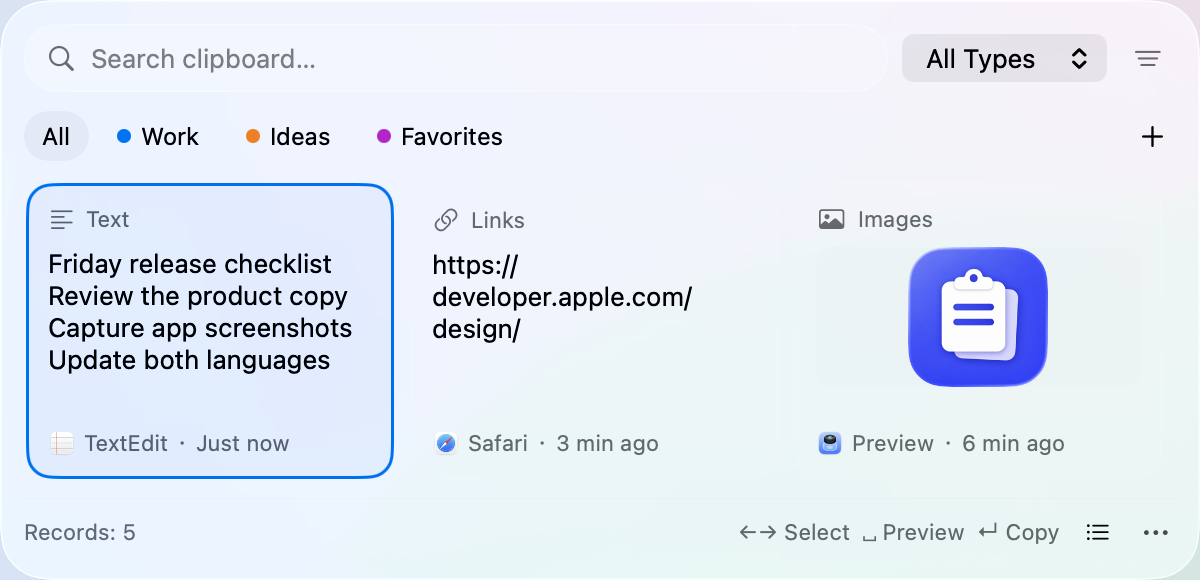
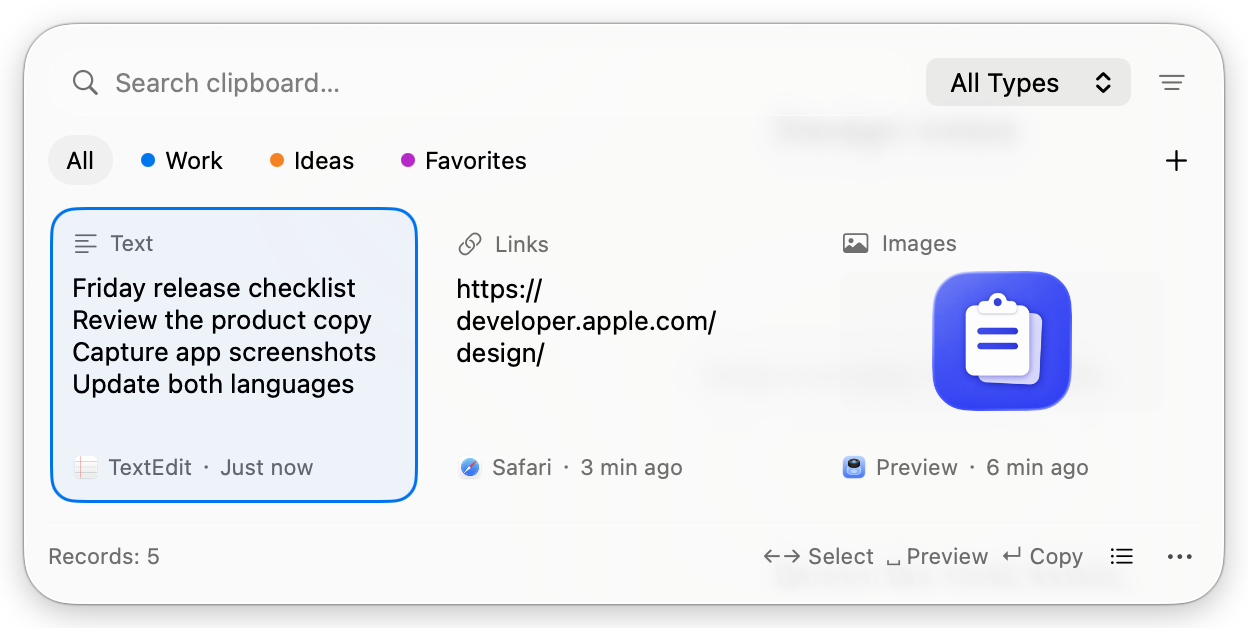
fix: use neutral backgrounds in website screenshots

diff --git a/website/en/index.html b/website/en/index.html
@@ -50,7 +50,7 @@
                 <div class="visual-topline" aria-hidden="true"><span>A little more memory for your clipboard.</span><span>⇧ ⌘ V</span></div>
                 <picture>
                     <source media="(prefers-color-scheme: dark)" srcset="../assets/website-cards-en-dark.webp">
-                    <img class="cards-screenshot" src="../assets/website-cards-en-light.webp" width="1200" height="580" alt="Actual Paste Lite Cards layout showing sample text, a link and an image" fetchpriority="high">
+                    <img class="cards-screenshot" src="../assets/website-cards-en-light.webp" width="1248" height="628" alt="Actual Paste Lite Cards layout showing sample text, a link and an image" fetchpriority="high">
                 </picture>
                 <figcaption>Actual Cards layout · Sample content</figcaption>
             </figure>
@@ -66,14 +66,14 @@
                 <figure>
                     <div class="layout-image"><picture>
                         <source media="(prefers-color-scheme: dark)" srcset="../assets/website-cards-en-dark.webp">
-                        <img class="cards-screenshot" src="../assets/website-cards-en-light.webp" width="1200" height="580" loading="lazy" alt="Actual Paste Lite Cards layout showing sample text, a link and an image">
+                        <img class="cards-screenshot" src="../assets/website-cards-en-light.webp" width="1248" height="628" loading="lazy" alt="Actual Paste Lite Cards layout showing sample text, a link and an image">
                     </picture></div>
                     <figcaption><strong>Cards</strong><span>Browse horizontally, with text snippets and image previews in view.</span></figcaption>
                 </figure>
                 <figure>
                     <div class="layout-image"><picture>
                         <source media="(prefers-color-scheme: dark)" srcset="../assets/website-list-en-dark.webp">
-                        <img class="list-screenshot" src="../assets/website-list-en-light.webp" width="1020" height="780" loading="lazy" alt="Actual Paste Lite List layout showing the same sample history">
+                        <img class="list-screenshot" src="../assets/website-list-en-light.webp" width="1068" height="828" loading="lazy" alt="Actual Paste Lite List layout showing the same sample history">
                     </picture></div>
                     <figcaption><strong>List</strong><span>A compact vertical view of titles, source apps and timestamps.</span></figcaption>
                 </figure>

diff --git a/website/index.html b/website/index.html
@@ -50,7 +50,7 @@
                 <div class="visual-topline" aria-hidden="true"><span>你的剪贴板，多一点记忆。</span><span>⇧ ⌘ V</span></div>
                 <picture>
                     <source media="(prefers-color-scheme: dark)" srcset="assets/website-cards-zh-dark.webp">
-                    <img class="cards-screenshot" src="assets/website-cards-zh-light.webp" width="1200" height="580" alt="Paste Lite 卡片布局实拍，展示示例文字、链接和图片" fetchpriority="high">
+                    <img class="cards-screenshot" src="assets/website-cards-zh-light.webp" width="1248" height="628" alt="Paste Lite 卡片布局实拍，展示示例文字、链接和图片" fetchpriority="high">
                 </picture>
                 <figcaption>卡片布局实拍 · 使用示例内容</figcaption>
             </figure>
@@ -66,14 +66,14 @@
                 <figure>
                     <div class="layout-image"><picture>
                         <source media="(prefers-color-scheme: dark)" srcset="assets/website-cards-zh-dark.webp">
-                        <img class="cards-screenshot" src="assets/website-cards-zh-light.webp" width="1200" height="580" loading="lazy" alt="Paste Lite 卡片布局实拍，展示示例文字、链接和图片">
+                        <img class="cards-screenshot" src="assets/website-cards-zh-light.webp" width="1248" height="628" loading="lazy" alt="Paste Lite 卡片布局实拍，展示示例文字、链接和图片">
                     </picture></div>
                     <figcaption><strong>卡片布局</strong><span>横向浏览，文字摘要和图片预览一眼可见。</span></figcaption>
                 </figure>
                 <figure>
                     <div class="layout-image"><picture>
                         <source media="(prefers-color-scheme: dark)" srcset="assets/website-list-zh-dark.webp">
-                        <img class="list-screenshot" src="assets/website-list-zh-light.webp" width="1020" height="780" loading="lazy" alt="Paste Lite 列表布局实拍，展示相同的示例历史记录">
+                        <img class="list-screenshot" src="assets/website-list-zh-light.webp" width="1068" height="828" loading="lazy" alt="Paste Lite 列表布局实拍，展示相同的示例历史记录">
                     </picture></div>
                     <figcaption><strong>列表布局</strong><span>纵向排列，更紧凑地查看标题、来源与时间。</span></figcaption>
                 </figure>

diff --git a/website/styles.css b/website/styles.css
@@ -49,9 +49,9 @@ h1 span { color: var(--blue); }
 .hero-visual { margin: 0; position: relative; padding: 35px 18px 22px; border: 1px solid var(--line); border-radius: 32px; background: var(--surface); }
 .visual-topline { display: flex; align-items: center; justify-content: space-between; gap: 12px; padding-inline: 15px; margin-bottom: 16px; color: var(--muted); font-size: 12px; letter-spacing: .04em; }
 .hero-visual > picture img { width: 100%; }
-/* Scale the native window’s 24 pt corners with each screenshot. */
-.cards-screenshot { border-radius: 4% / 8.28%; }
-.list-screenshot { border-radius: 4.71% / 6.16%; }
+/* Preserve the native 24 pt corners and 12 pt shadow margin as screenshots scale. */
+.cards-screenshot { border-radius: 5.77% / 11.46%; }
+.list-screenshot { border-radius: 6.74% / 8.70%; }
 .hero-visual figcaption { text-align: center; color: var(--muted); font-size: 12px; margin-top: 12px; }
 .overview { display: grid; grid-template-columns: repeat(4, 1fr); padding-block: 26px; border-block: 1px solid var(--line); }
 .overview div { text-align: center; padding: 4px 12px; }

diff --git a/CONTRIBUTING.md b/CONTRIBUTING.md
@@ -134,10 +134,10 @@ Use the system-composited screen image to preserve the native glass. Window-only
 
 1. **Prepare an isolated app.** Use the production `ClipboardPanelController`, `ClipboardHistoryView`, and `ClipboardGlass` with a temporary database, preferences, named pasteboard, and a dedicated capture-app bundle identifier. Populate only synthetic text, links, images, and groups. Disable copy and preview actions in the fixture; do not start clipboard monitoring or read stable/Beta history. Keep the fixture and capture logs under `.build/`.
 2. **Set up the real material.** Use macOS 26 or later for Liquid Glass and record the OS version and effective panel appearance. Check Reduce Transparency before capturing; if enabled, stop the glass capture without changing the user's system setting. Set the capture app and panel explicitly to light or dark appearance.
-3. **Place an opaque backdrop behind the panel.** Cover the entire capture region with a separate window so no personal desktop content can show through. Use a gentle gradient to make transmission through the glass visible, not an overlay on the app. The current screenshots use a 20° sRGB gradient from `(0.80, 0.90, 0.98)` to `(0.96, 0.87, 0.90)` in light mode and `(0.10, 0.15, 0.24)` to `(0.22, 0.15, 0.23)` in dark mode, with a subtle teal area near the bottom. Keep the panel above the backdrop; exclude other windows and window shadows from the captured rectangle. Do not modify the production material to improve a screenshot.
-4. **Capture the settled panel.** Activate the capture app, make its panel key, wait for all sample records and image previews to load, and select the first record without focusing search. Close menus, popovers, and sheets. Use `screencapture -x -R x,y,width,height output.png`, replacing the rectangle with the panel frame in screen points. Place the panel and backdrop on the primary display and convert AppKit's bottom-left origin with `y = screen.frame.height - panel.frame.maxY`; do not multiply the rectangle by the Retina scale. Verify that it is entirely inside the backdrop before capture.
-5. **Replace the complete set.** Capture Cards/List × Chinese/English × light/dark: eight `docs/website-{cards,list}-{zh,en}-{light,dark}.png` files. At the current panel sizes and 2× capture scale, Cards are 1200 × 580 and List is 1020 × 780 pixels. Inspect every image for correct text, loaded images, visible glass, and absence of menus or a gray veil. The composited PNG should be fully opaque, including the backdrop in its outer corners. Regenerate each matching WebP with `cwebp -lossless -exact -metadata all input.png -o output.webp`; compare decoded pixels, dimensions, and color profiles with the PNG.
-6. **Clip corners on the website.** Apply the existing `cards-screenshot` or `list-screenshot` class to every matching image in both language pages. The native 24 pt corner is 48 px at 2×: use `4% / 8.28%` for Cards and `4.71% / 6.16%` for List. Recalculate these ratios if the panel dimensions or corner radius change. Preserve each image's aspect ratio; a fixed-size `object-fit: contain` box can leave the visible image's corners unclipped. Do not add a tint, blur, or opacity layer to fake glass or hide capture defects.
+3. **Place a neutral sample page behind the panel.** Cover the entire capture region with a separate opaque window so no personal desktop content can show through. Use a white page in light mode and neutral dark gray in dark mode (the current fixture uses white levels 1.0 and 0.13), with a few lines of gray sample text. Let the real glass soften those details naturally. Avoid colorful gradients or large colored shapes added just to emphasize transparency. Keep the panel above the backdrop and preserve its production window shadow; exclude other windows. Do not modify the production material to improve a screenshot.
+4. **Capture the settled panel.** Activate the capture app, make its panel key, wait for all sample records and image previews to load, and select the first record without focusing search. Close menus, popovers, and sheets; verify that the app is still active and the panel is still key immediately before capturing. Use `screencapture -x -R x,y,width,height output.png`, replacing the rectangle with `panel.frame.insetBy(dx: -12, dy: -12)` in screen points. The 12 pt margin on every side retains the native shadow. Place the panel and backdrop on the primary display and convert AppKit's bottom-left origin with `y = screen.frame.height - captureFrame.maxY`; do not multiply the rectangle by the Retina scale. Verify that the expanded rectangle is entirely inside the backdrop before capture.
+5. **Replace the complete set.** Capture Cards/List × Chinese/English × light/dark: eight `docs/website-{cards,list}-{zh,en}-{light,dark}.png` files. At the current panel sizes and 2× capture scale, including the shadow margin, Cards are 1248 × 628 and List is 1068 × 828 pixels. Inspect every image for correct text, loaded images, neutral glass with subtle background details, intact shadows, and absence of menus or a gray veil. The composited PNG should be fully opaque, including the backdrop around the window. Regenerate each matching WebP with `cwebp -lossless -exact -metadata all input.png -o output.webp`; compare decoded pixels, dimensions, and color profiles with the PNG.
+6. **Clip the screenshot framing on the website.** Apply the existing `cards-screenshot` or `list-screenshot` class to every matching image in both language pages. Keep the native window corners and shadow inside the image. For the outer crop, add the 12 pt margin to the native 24 pt radius: 36 pt, or 72 px at 2×. This gives `5.77% / 11.46%` for Cards and `6.74% / 8.70%` for List. Recalculate these ratios and the HTML image dimensions if the panel size, margin, or radius changes. Preserve each image's aspect ratio; a fixed-size `object-fit: contain` box can leave the visible image's corners unclipped. Do not add a tint, blur, or opacity layer to fake glass or hide capture defects.
 7. **Verify and clean up.** Build the website, check both languages and appearances at desktop and mobile widths, and refresh `docs/website-preview.png` from the rendered page. Keep validation records in `.build/`. Finish pending storage work, exit the temporary app normally, remove its temporary data and preferences, and clean up only its confirmed bundle identifier's permission records and `.app`. Preserve the installed stable/Beta apps, data, and permissions.
 
 ## Implementation guidelines

diff --git a/CONTRIBUTING.zh-CN.md b/CONTRIBUTING.zh-CN.md
@@ -134,10 +134,10 @@ python3 -m http.server 4173 --bind 127.0.0.1 --directory .build/website
 
 1. **准备隔离应用。** 复用实际的 `ClipboardPanelController`、`ClipboardHistoryView` 和 `ClipboardGlass`，使用临时数据库、偏好、命名剪贴板和专用截图应用 bundle identifier。仅填入示例文本、链接、图片和分组，禁用拍摄程序中的复制与预览操作，不启动剪贴板监听，不读取正式版或 Beta 历史。拍摄程序和日志放在 `.build/` 下。
 2. **确认真实材质。** 展示 Liquid Glass 时使用 macOS 26 及以上，记录系统版本与面板实际外观。拍摄前检查“减少透明度”；若已开启，停止玻璃效果拍摄，不修改用户系统设置。明确将截图应用和面板设为浅色或深色。
-3. **在面板后放置不透明背景。** 使用独立窗口覆盖整个截图区域，防止个人桌面内容透出。用柔和渐变体现玻璃透色，不能将它叠在应用上。本次浅色背景采用 20° sRGB 渐变，从 `(0.80, 0.90, 0.98)` 到 `(0.96, 0.87, 0.90)`；深色从 `(0.10, 0.15, 0.24)` 到 `(0.22, 0.15, 0.23)`，底部辅以淡青绿色区域。面板置于背景之上，截图矩形排除其他窗口和窗口阴影；不为拍照修改正式界面的材质。
-4. **等待面板稳定后截取区域。** 激活截图应用，使面板成为 key window，等待示例记录和图片加载完成，选中第一条但不聚焦搜索框；关闭菜单、浮层和表单。使用 `screencapture -x -R x,y,width,height output.png`，将矩形参数替换为面板在屏幕上的逻辑点坐标。将面板和背景放在主显示器上，用 `y = screen.frame.height - panel.frame.maxY` 转换 AppKit 左下角坐标原点；不要再将矩形乘以 Retina 倍率。拍摄前确认整个矩形位于自有背景内。
-5. **成套更新图片。** 拍摄卡片/列表 × 中文/英文 × 浅色/深色，共八张 `docs/website-{cards,list}-{zh,en}-{light,dark}.png`。当前面板尺寸在 2× 拍摄时，卡片为 1200 × 580、列表为 1020 × 780 像素。逐张检查文案、图片加载、玻璃层次，以及是否残留菜单或灰色蒙层。合成后的 PNG 应完全不透明，包括窗口圆角外的背景。用 `cwebp -lossless -exact -metadata all input.png -o output.webp` 生成同名 WebP，并对照 PNG 检查解码像素、尺寸与颜色配置。
-6. **在官网裁切圆角。** 两个语言页面的对应图片都使用现有 `cards-screenshot` 或 `list-screenshot` 类。原生 24pt 圆角在 2× 截图中为 48px：卡片使用 `4% / 8.28%`，列表使用 `4.71% / 6.16%`；面板尺寸或圆角变化时重新计算比例。保留图片自身宽高比，固定尺寸的 `object-fit: contain` 容器可能无法裁到实际图像的四角。不要添加色罩、模糊或透明度层来模拟玻璃或遮掩拍摄问题。
+3. **在面板后放置中性示例页面。** 使用独立不透明窗口覆盖整个截图区域，防止个人桌面内容透出。浅色采用白色页面，深色采用中性深灰（当前拍摄程序的灰度分别为 1.0 与 0.13），放少量灰色示例文字，让真实玻璃自然模糊这些细节。不要为了突出透明感添加彩色渐变或大面积色块。面板置于背景之上，保留正式界面的窗口阴影，排除其他窗口；不为拍照修改正式界面的材质。
+4. **等待面板稳定后截取区域。** 激活截图应用，使面板成为 key window，等待示例记录和图片加载完成，选中第一条但不聚焦搜索框；关闭菜单、浮层和表单，拍摄前再次确认应用仍激活、面板仍为 key window。使用 `screencapture -x -R x,y,width,height output.png`，将矩形参数替换为 `panel.frame.insetBy(dx: -12, dy: -12)` 的屏幕逻辑点坐标；四周各留 12pt，保留原生阴影。将面板和背景放在主显示器上，用 `y = screen.frame.height - captureFrame.maxY` 转换 AppKit 左下角坐标原点；不要再将矩形乘以 Retina 倍率。拍摄前确认扩展后的整个矩形位于自有背景内。
+5. **成套更新图片。** 拍摄卡片/列表 × 中文/英文 × 浅色/深色，共八张 `docs/website-{cards,list}-{zh,en}-{light,dark}.png`。当前面板尺寸在 2× 拍摄并保留阴影边距时，卡片为 1248 × 628、列表为 1068 × 828 像素。逐张检查文案、图片加载、中性玻璃与隐约背景细节、完整阴影，以及是否残留菜单或灰色蒙层。合成后的 PNG 应完全不透明，包括窗口周围的背景。用 `cwebp -lossless -exact -metadata all input.png -o output.webp` 生成同名 WebP，并对照 PNG 检查解码像素、尺寸与颜色配置。
+6. **在官网裁切截图外框圆角。** 两个语言页面的对应图片都使用现有 `cards-screenshot` 或 `list-screenshot` 类，将原生窗口圆角和阴影完整保留在图片内部。外框裁切半径取原生 24pt 圆角加 12pt 边距，即 36pt，在 2× 图片中为 72px；卡片使用 `5.77% / 11.46%`，列表使用 `6.74% / 8.70%`。面板尺寸、边距或圆角变化时，重新计算比例并同步 HTML 图片尺寸。保留图片自身宽高比，固定尺寸的 `object-fit: contain` 容器可能无法裁到实际图像的四角。不要添加色罩、模糊或透明度层来模拟玻璃或遮掩拍摄问题。
 7. **验证与清理。** 构建官网，在桌面和手机宽度检查两种语言及浅深色，并从实际页面更新 `docs/website-preview.png`；验证记录留在 `.build/`。退出前等待存储任务结束，随后正常退出临时应用，移除其临时数据与偏好，仅清理已确认的测试 bundle identifier 对应权限及 `.app`。保留正式版与 Beta 的安装、数据和权限。
 
 ## 实现约定

diff --git a/AGENTS.md b/AGENTS.md
@@ -148,7 +148,7 @@ GitHub Actions 的 `ci.yml` 在 PR 和 `main` 提交上只运行 Apple Silicon /
 - 应用支持简体中文与英文；用户可在设置中切换或跟随系统。新增文案同步维护两份本地化资源，检查英文长度和格式参数，不翻译用户正文。
 - 文档使用仓库相对链接和通用命令，描述已有能力，不虚构平台支持、发布包或验证结果。
 - 功能方案、设计过程、验证记录和性能报告保存在已忽略的 `.build/` 下，不提交到代码库；`docs/` 仅保留公开文档需要的资源。
-- 官网截图遵循[玻璃效果截图流程](./CONTRIBUTING.zh-CN.md#玻璃效果截图流程)（[English](./CONTRIBUTING.md#capturing-glass-screenshots)）：使用隔离示例数据与自有不透明背景，通过 `screencapture -x -R` 截取系统合成区域，禁止用 `-l` 单独截取玻璃窗口；成套更新中英文浅深色 PNG/WebP，并在两种语言页面匹配原生窗口圆角，不用蒙层或后期效果模拟玻璃。
+- 官网截图遵循[玻璃效果截图流程](./CONTRIBUTING.zh-CN.md#玻璃效果截图流程)（[English](./CONTRIBUTING.md#capturing-glass-screenshots)）：使用隔离示例数据与自有不透明中性页面背景，保留原生阴影，不用彩色渐变强化效果；通过 `screencapture -x -R` 截取系统合成区域，禁止用 `-l` 单独截取玻璃窗口；成套更新中英文浅深色 PNG/WebP，并在两种语言页面同步图片尺寸及包含阴影边距的外框圆角，不用蒙层或后期效果模拟玻璃。
 - 提交信息简明描述改动，可使用 `docs:`、`fix:`、`feat:` 等前缀。仅提交本任务内容，遵循用户指定的分支和推送范围，不擅自强推或改写已有历史。
 
 ## 完成前验证

diff --git a/CHANGELOG.md b/CHANGELOG.md
@@ -18,7 +18,7 @@ Notable changes to Paste Lite are recorded here.
 
 ### Website
 
-- Refresh the website’s Chinese and English Cards and List screenshots with the latest interface and the system-composited glass background, correcting the gray cast in light appearance. Match the screenshots’ rounded corners to the native window at every display size.
+- Refresh the website’s Chinese and English Cards and List screenshots with the latest interface and system-composited glass over a neutral sample page, correcting the gray cast in light appearance. Preserve native window shadows and scale the screenshot framing and rounded corners with the images.
 - Add a Chinese and English product website with actual Cards and List screenshots in both languages and appearances, feature and shortcut guides, installation FAQs, and links to the latest release. The website supports mobile screens and system light/dark appearance and deploys independently through GitHub Pages.
 
 ## [1.2.2](https://github.com/wygkzqa/paste-lite/releases/tag/v1.2.2) — 2026-09-28

diff --git a/CHANGELOG.zh-CN.md b/CHANGELOG.zh-CN.md
@@ -18,7 +18,7 @@
 
 ### 官网
 
-- 重新拍摄官网中英文、浅深色的卡片与列表截图，展示最新界面及系统合成后的真实玻璃背景，修正浅色截图发灰的问题，并按显示尺寸匹配原生窗口圆角。
+- 重新拍摄官网中英文、浅深色的卡片与列表截图，展示最新界面、中性示例页面上的真实玻璃与原生窗口阴影，修正浅色截图发灰的问题，并按显示尺寸匹配截图边距和圆角。
 - 新增中英文产品官网，提供中英文及浅深色的卡片和列表实拍、功能与快捷键介绍、安装常见问题及最新正式版下载入口；适配手机与系统浅色、深色外观，通过 GitHub Pages 独立部署。
 
 ## [1.2.2](https://github.com/wygkzqa/paste-lite/releases/tag/v1.2.2) — 2026-09-28
